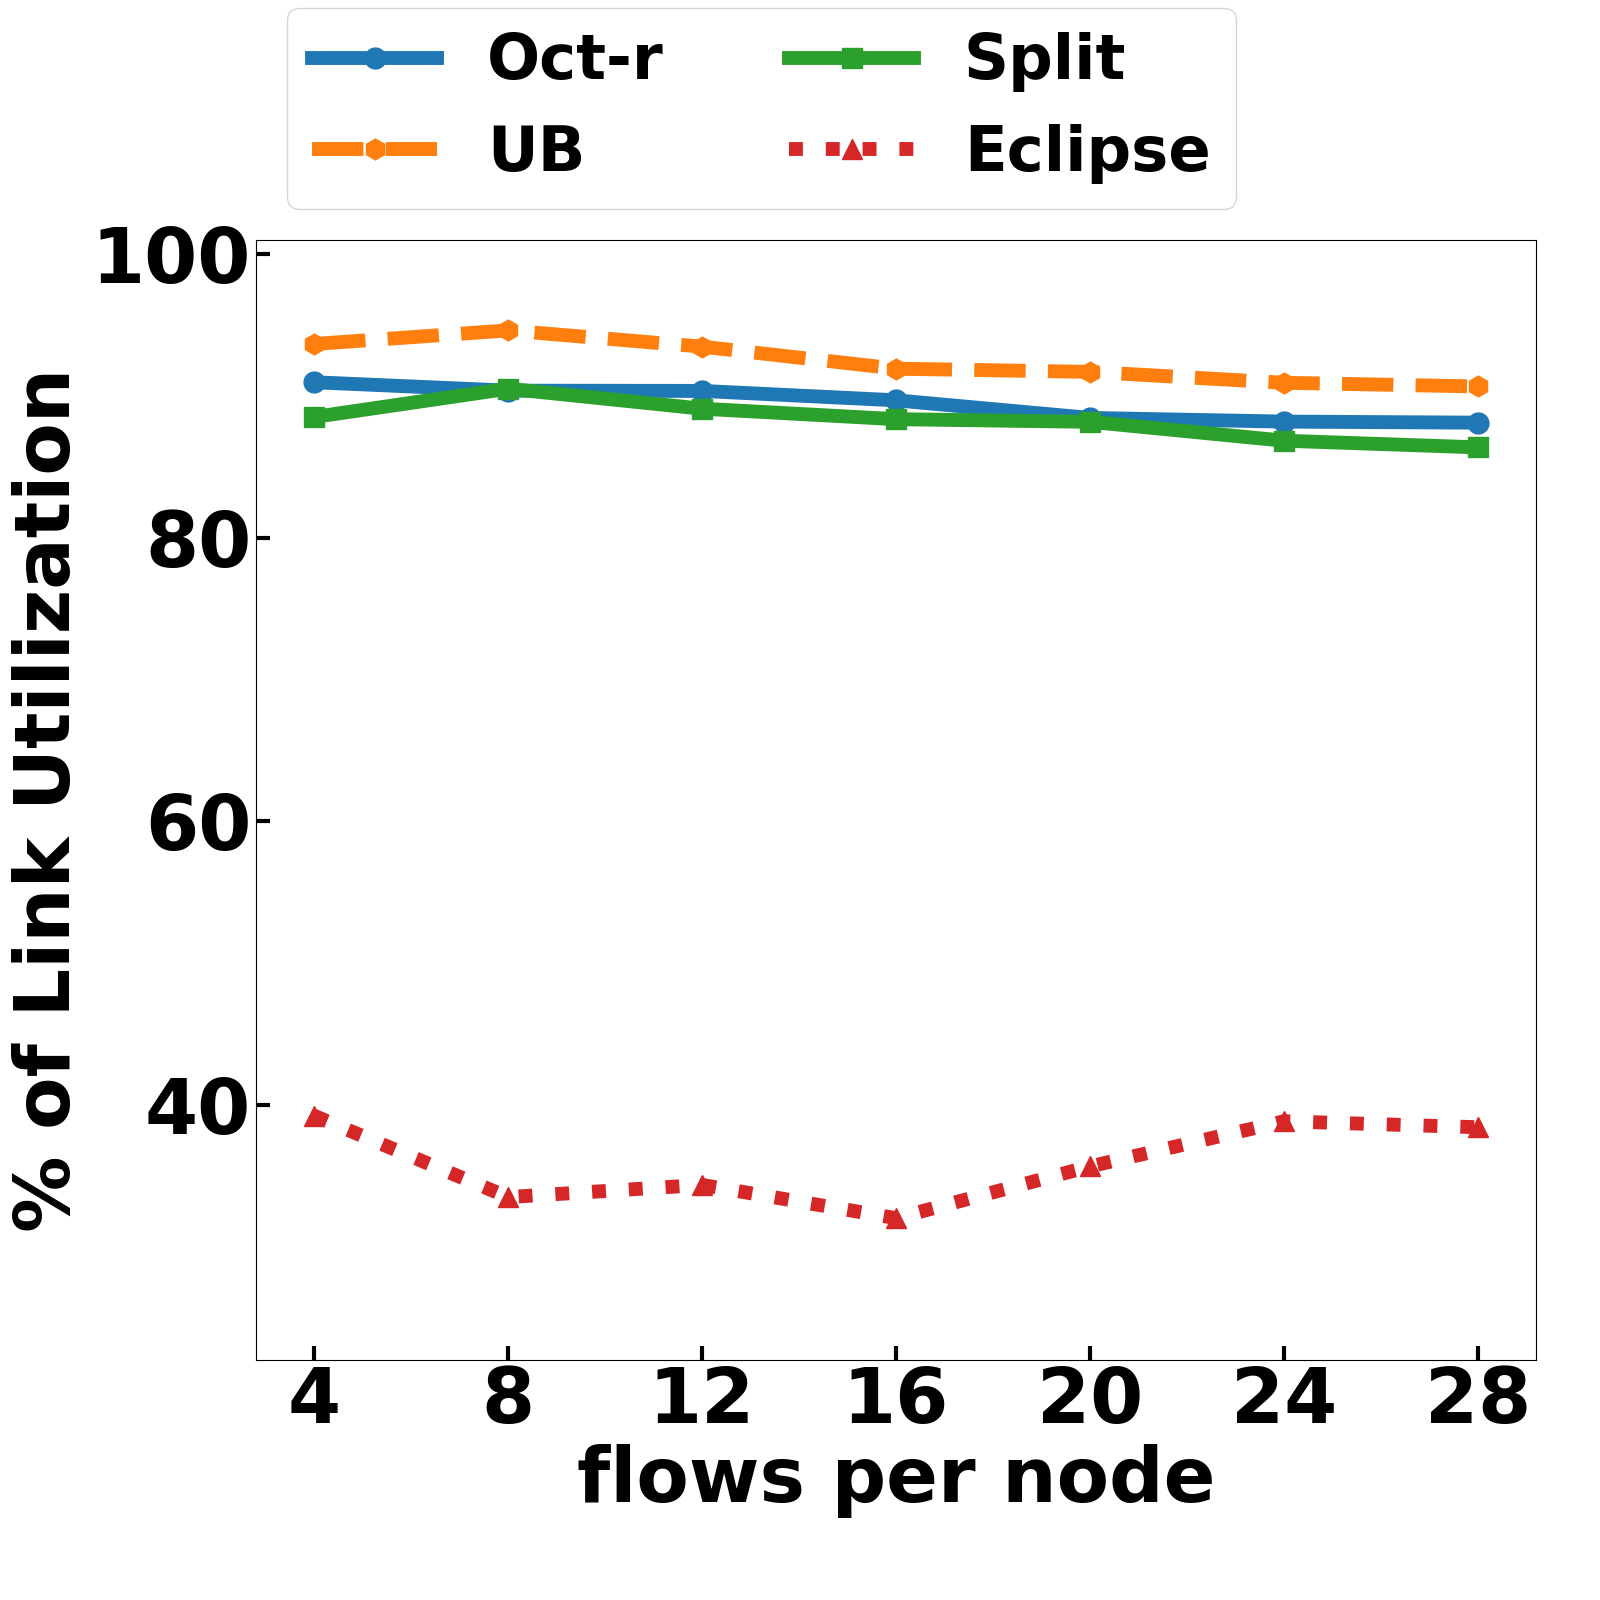
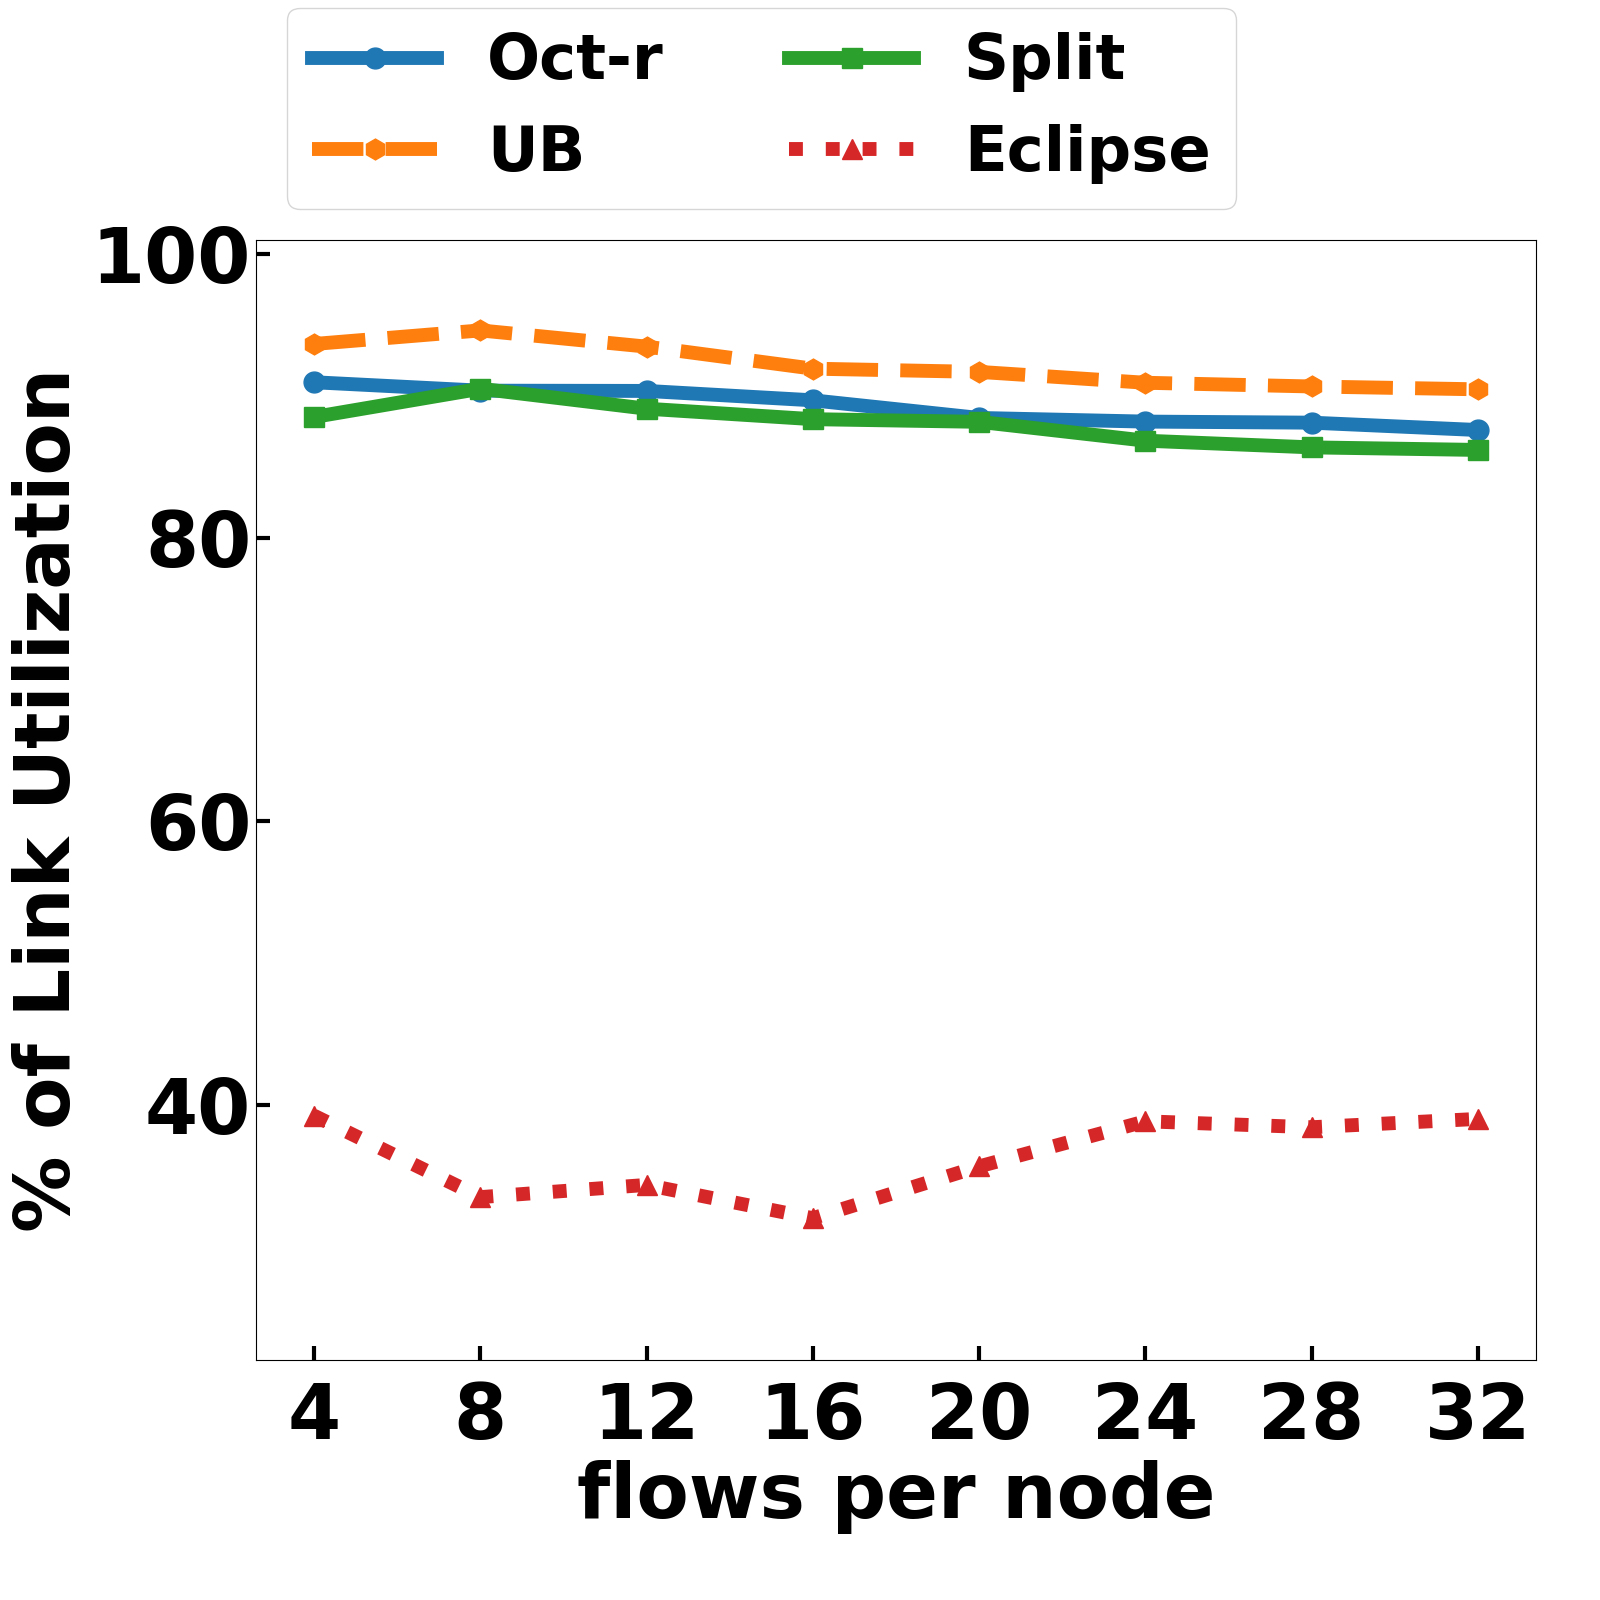
one more plot

diff --git a/plots.py b/plots.py
@@ -34,11 +34,7 @@ def plot_line(table, method, filename=None, x_label=None, x_log=False, y_label=N
 	'''
 	markers    = ['o', 'h', 's', '^', 'D', 'P']     # markers
 	linestyles = ['-', '--', '-', ':', '--', '-.']  # line styles
-	plt.rcParams['font.size'] = 55
-	plt.rcParams['font.weight'] = 'bold'
-	plt.rcParams['axes.labelweight'] = 'bold'
-	plt.rcParams['lines.linewidth'] = 10
-	plt.rcParams['lines.markersize'] = 15
+	
 	fig, ax = plt.subplots(figsize=(16, 16))
 	fig.subplots_adjust(left=0.16, right=0.96, top=0.85, bottom=0.15)
 	X  = [row[0] for row in table]
@@ -60,7 +56,8 @@ def plot_line(table, method, filename=None, x_label=None, x_log=False, y_label=N
 	y_max = 101
 	plt.ylim([y_min, y_max])
 	plt.legend(bbox_to_anchor=(0, 1), loc='lower left', ncol=2, fontsize=45)
-	ax.tick_params(direction='in', length=10, width=3, grid_alpha=1)
+	ax.tick_params(direction='in', length=10, width=3)
+	ax.tick_params(axis='x', pad=15)
 	if x_label:
 		ax.set_xlabel(x_label)
 	if y_label:
@@ -84,11 +81,11 @@ def plot1_1(path):
 	metric_  = ['% of Packets Deliverd',     '% of Link Utilization']
 
 	for i in range(0, len(metric)):
-		rd_table = {}
+		table = {}
 		for inpt, output_by_method in data:
-			rd_table[(inpt.num_nodes)] = {method: getMetric(inpt, output, metric=metric[i]) for method, output in output_by_method.iteritems()}
+			table[(inpt.num_nodes)] = {method: getMetric(inpt, output, metric=metric[i]) for method, output in output_by_method.iteritems()}
 		
-		print_table = [[vs] + [(vals_by_method[method] if method in vals_by_method else None) for method in methods] for vs, vals_by_method in sorted(rd_table.iteritems())]
+		print_table = [[vs] + [(vals_by_method[method] if method in vals_by_method else None) for method in methods] for vs, vals_by_method in sorted(table.iteritems())]
 		print metric[i]
 		print tabulate.tabulate(print_table, headers = ['NUN_NODE'] + methods)
 		print ''
@@ -107,11 +104,11 @@ def plot1_2(path):
 	metric_  = ['% of Packets Deliverd',     '% of Link Utilization']
 
 	for i in range(0, len(metric)):
-		rd_table = {}
+		table = {}
 		for inpt, output_by_method in data:
-			rd_table[(inpt.reconfig_delta)] = {method: getMetric(inpt, output, metric=metric[i]) for method, output in output_by_method.iteritems()}
+			table[(inpt.reconfig_delta)] = {method: getMetric(inpt, output, metric=metric[i]) for method, output in output_by_method.iteritems()}
 		
-		print_table = [[vs] + [(vals_by_method[method] if method in vals_by_method else None) for method in methods] for vs, vals_by_method in sorted(rd_table.iteritems())]
+		print_table = [[vs] + [(vals_by_method[method] if method in vals_by_method else None) for method in methods] for vs, vals_by_method in sorted(table.iteritems())]
 		print metric[i]
 		print tabulate.tabulate(print_table, headers = ['DELTA'] + methods)
 		print ''
@@ -130,11 +127,11 @@ def plot1_3(path):
 	metric_  = ['% of Packets Deliverd',     '% of Link Utilization']
 
 	for i in range(0, len(metric)):
-		rd_table = {}
+		table = {}
 		for inpt, output_by_method in data:
-			rd_table[(inpt.cs)] = {method: getMetric(inpt, output, metric=metric[i]) for method, output in output_by_method.iteritems()}
+			table[(inpt.cs)] = {method: getMetric(inpt, output, metric=metric[i]) for method, output in output_by_method.iteritems()}
 		
-		print_table = [[int(vs*100)] + [(vals_by_method[method] if method in vals_by_method else None) for method in methods] for vs, vals_by_method in sorted(rd_table.iteritems())]
+		print_table = [[int(vs*100)] + [(vals_by_method[method] if method in vals_by_method else None) for method in methods] for vs, vals_by_method in sorted(table.iteritems())]
 		print metric[i]
 		print tabulate.tabulate(print_table, headers = ['CS'] + methods)
 		print ''
@@ -153,11 +150,11 @@ def plot1_4(path):
 	metric_  = ['% of Packets Deliverd',     '% of Link Utilization']
 
 	for i in range(0, len(metric)):
-		rd_table = {}
+		table = {}
 		for inpt, output_by_method in data:
-			rd_table[(inpt.nl, inpt.ns)] = {method: getMetric(inpt, output, metric=metric[i]) for method, output in output_by_method.iteritems()}
+			table[(inpt.nl, inpt.ns)] = {method: getMetric(inpt, output, metric=metric[i]) for method, output in output_by_method.iteritems()}
 		
-		print_table = [[int(vs[0])+int(vs[1])] + [(vals_by_method[method] if method in vals_by_method else None) for method in methods] for vs, vals_by_method in sorted(rd_table.iteritems())]
+		print_table = [[int(vs[0])+int(vs[1])] + [(vals_by_method[method] if method in vals_by_method else None) for method in methods] for vs, vals_by_method in sorted(table.iteritems())]
 		print metric[i]
 		print tabulate.tabulate(print_table, headers = ['NL+NS'] + methods)
 		print ''
@@ -169,9 +166,44 @@ def plot2(path):
 	filename = '{}/2.txt'
 	data = runner.readDataFromFile(filename.format(path))
 	methods  = ['octopus-r', 'upper-bound', 'split', 'eclipse']
-	methods_ = ['Oct-r',     'UB',          'Split', 'Eclipse']
-	metric   = ['percent_packets_delivered']
-	metric_  = ['% of Packets Deliverd']
+	metrics  = ['percent_packets_delivered']
+	metrics_ = ['% of Packets Deliverd']
+
+	for metric, metric_ in zip(metrics, metrics_):
+		table = {}
+		for inpt, output_by_method in data:
+			table[(inpt.input_source, inpt.cluster)] = {method: getMetric(inpt, output, metric=metric) for method, output in output_by_method.iteritems()}
+		
+		print_table = [list(vs) + [(vals_by_method[method] if method in vals_by_method else None) for method in methods] for vs, vals_by_method in sorted(table.iteritems())]
+		print metric
+		print tabulate.tabulate(print_table, headers = ['SOURCE', 'CLUSTER'] + methods)
+		
+		arr = np.array(print_table)
+		oct_r = np.array(arr[:, 2], float)
+		ub    = np.array(arr[:, 3], float)
+		split = np.array(arr[:, 4], float)
+		eclip = np.array(arr[:, 5], float)
+
+		ind   = np.arange(len(oct_r))
+		width = 0.16
+		
+		fig, ax = plt.subplots(figsize=(22.2, 15))
+		fig.subplots_adjust(left=0.15, right=0.96, top=0.85, bottom=0.1)
+		pos1 = ind - width*1.5
+		pos2 = ind - width*0.5
+		pos3 = ind + width*0.5
+		pos4 = ind + width*1.5
+		ax.bar(pos1, eclip, width, edgecolor='black', label='Eclipse')
+		ax.bar(pos2, split, width, edgecolor='black', label='Split')
+		ax.bar(pos3, oct_r, width, edgecolor='black', label='Oct-r')
+		ax.bar(pos4, ub,    width, edgecolor='black', label='UB')
+		
+		plt.legend(bbox_to_anchor=(-0.02, 1), loc='lower left', ncol=4, fontsize=45)
+		ax.tick_params(axis='y', direction='in', length=10, width=3, pad=15)
+		ax.set_ylabel(metric_)
+		ax.set_xlabel('Varies Clusters')
+		plt.xticks(ind, ['FB-1', 'FB-2', 'FB-3', 'MS-1', 'MS-2', 'MS-3'], fontsize=45)
+		plt.savefig('{}/{}-real_traffic'.format(path, metric))
 
 
 def plot3(path):
@@ -185,11 +217,11 @@ def plot3(path):
 	metric_  = [ '% of Objective Value']
 
 	for i in range(0, len(metric)):
-		rd_table = {}
+		table = {}
 		for inpt, output_by_method in data:
-			rd_table[(inpt.reconfig_delta)] = {method: getMetric(inpt, output, metric=metric[i]) for method, output in output_by_method.iteritems()}
+			table[(inpt.reconfig_delta)] = {method: getMetric(inpt, output, metric=metric[i]) for method, output in output_by_method.iteritems()}
 		
-		print_table = [[vs] + [(vals_by_method[method] if method in vals_by_method else None) for method in methods] for vs, vals_by_method in sorted(rd_table.iteritems())]
+		print_table = [[vs] + [(vals_by_method[method] if method in vals_by_method else None) for method in methods] for vs, vals_by_method in sorted(table.iteritems())]
 		print metric[i]
 		print tabulate.tabulate(print_table, headers = ['DELTA'] + methods)
 		print ''
@@ -207,11 +239,11 @@ def plot4(path):
 	metric_  = ['% of Packets Deliverd']
 
 	for i in range(0, len(metric)):
-		rd_table = {}
+		table = {}
 		for inpt, output_by_method in data:
-			rd_table[(inpt.reconfig_delta)] = {method: getMetric(inpt, output, metric=metric[i]) for method, output in output_by_method.iteritems()}
+			table[(inpt.reconfig_delta)] = {method: getMetric(inpt, output, metric=metric[i]) for method, output in output_by_method.iteritems()}
 		
-		print_table = [[vs] + [(vals_by_method[method] if method in vals_by_method else None) for method in methods] for vs, vals_by_method in sorted(rd_table.iteritems())]
+		print_table = [[vs] + [(vals_by_method[method] if method in vals_by_method else None) for method in methods] for vs, vals_by_method in sorted(table.iteritems())]
 		print metric[i]
 		print tabulate.tabulate(print_table, headers = ['DELTA'] + methods)
 		print ''
@@ -222,8 +254,18 @@ def plot4(path):
 def plot5(path):
 	pass
 
+
+
 if __name__ == '__main__':
+	
+	plt.rcParams['font.size'] = 55
+	plt.rcParams['font.weight'] = 'bold'
+	plt.rcParams['axes.labelweight'] = 'bold'
+	plt.rcParams['lines.linewidth'] = 10
+	plt.rcParams['lines.markersize'] = 15
+
 	path = 'data/6-22'
+
 	# plot1_1(path)
 	# plot1_2(path)
 	# plot1_3(path)
@@ -231,3 +273,4 @@ if __name__ == '__main__':
 	plot2(path)
 	# plot3(path)
 	# plot4(path)
+	# plot5(path)

diff --git a/runner.py b/runner.py
@@ -353,12 +353,9 @@ if __name__ == '__main__':
 			inputs.append(Input())
 
 		if experiment == NUM_NODES:
-			# num_nodes = [25, 50, 100, 150, 200, 250, 300]
-			# num_large = [1,  2,  4,   6,   8,   10,  12]
-			# num_small = [3,  6,  12,  18,  24,  30,  36]
-			num_nodes = [75, 125]
-			num_large = [3,  5]
-			num_small = [9, 15]
+			num_nodes = [25, 50, 75, 100, 125, 150]
+			num_large = [1,  2,  3,  4,   5,   6 ]
+			num_small = [3,  6,  9,  12,  15,  18]
 			
 			methods   = ['octopus-r', 'upper-bound', 'split', 'eclipse']
 			
@@ -373,10 +370,8 @@ if __name__ == '__main__':
 				inputs.append(Input(reconfig_delta = rd, methods = methods))
 
 		elif experiment == SPARSITY:
-			# num_large = [1, 2, 3, 4,  5,  6,  7,  8]
-			# num_small = [3, 6, 9, 12, 15, 18, 21, 24]
-			num_large = [8]
-			num_small = [24]
+			num_large = [1, 2, 3, 4,  5,  6,  7,  8]
+			num_small = [3, 6, 9, 12, 15, 18, 21, 24]
 
 			methods   = ['octopus-r', 'upper-bound', 'split', 'eclipse']
 
@@ -393,7 +388,7 @@ if __name__ == '__main__':
 
 		elif experiment == EPS_TEST:
 			methods       = ['upper-bound', 'octopus-r', 'octopus-e']
-			route_lengths = [2, 3]
+			route_lengths = [1, 2, 3]
 
 			for route_length in route_lengths:
 				inputs.append(Input(min_route_length = route_length, max_route_length = route_length, num_routes = 1, methods = methods))

diff --git a/input_utils.py b/input_utils.py
@@ -162,8 +162,8 @@ class Traffic:
         Return:
             {(int, int) -> Flow}
         '''
-        random.seed(self.random_seed)                                       # replicable
-        np.random.seed(self.random_seed)
+        # random.seed(self.random_seed)                                       # replicable
+        # np.random.seed(self.random_seed)
         self.matrix = np.zeros((self.num_nodes, self.num_nodes))
         for _ in range(n_l):                  # large flows
             permutation = self.random_permutation()
